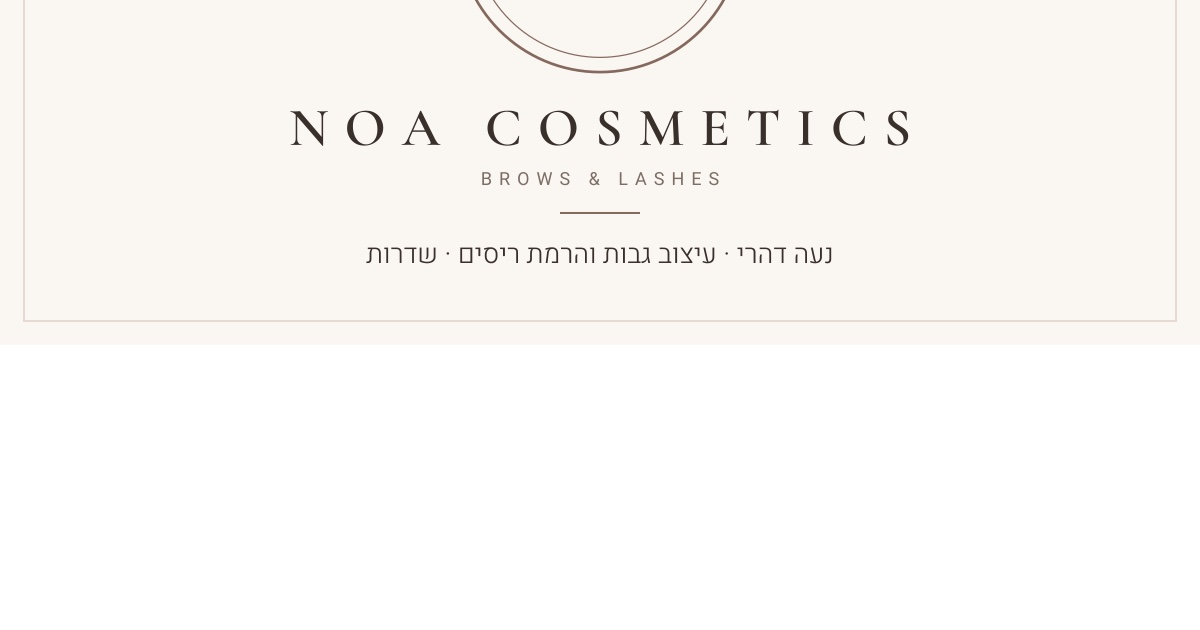
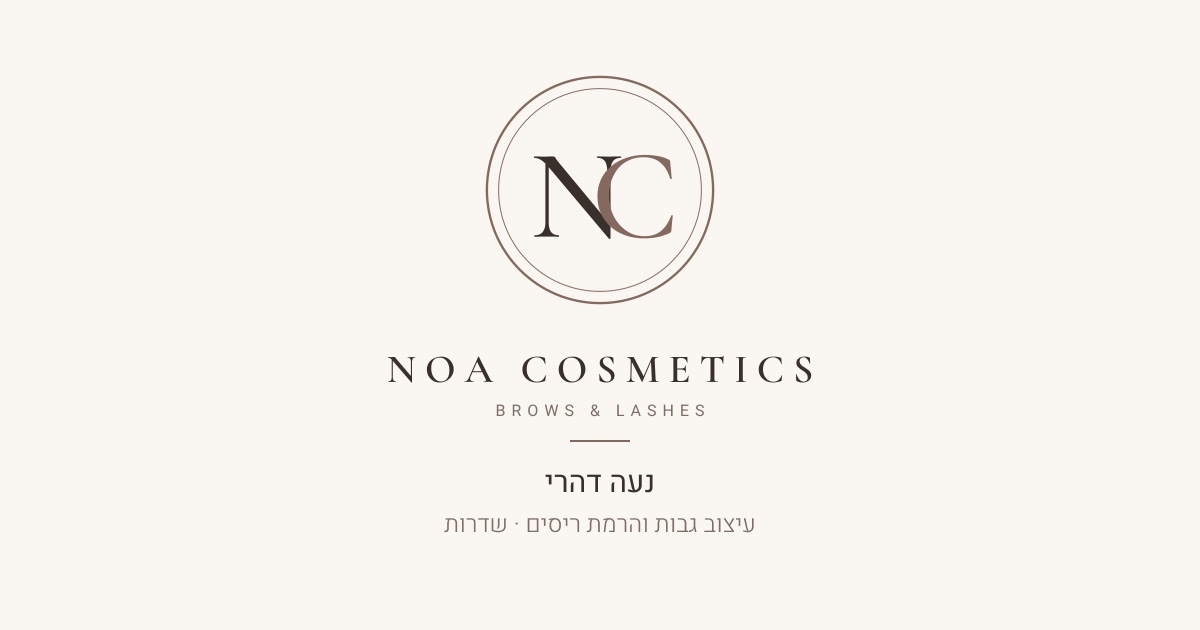
Add mobile hamburger menu, fix cropped WhatsApp preview image, add footer credit
- og-image.jpg was cropped from the middle of the render (top half missing);
  regenerated with content centered in a WhatsApp-safe square zone
- Bump og:image URL so WhatsApp refetches it

diff --git a/site/index.html b/site/index.html
@@ -10,7 +10,7 @@
 <meta property="og:description" content="עיצוב גבות, הרמת גבות והרמת ריסים בשדרות. קביעת תור אונליין.">
 <meta property="og:url" content="https://noa-cosmetics.vercel.app/">
 <meta property="og:site_name" content="Noa Cosmetics">
-<meta property="og:image" content="https://noa-cosmetics.vercel.app/og-image.jpg">
+<meta property="og:image" content="https://noa-cosmetics.vercel.app/og-image.jpg?v=2">
 <meta property="og:image:width" content="1200">
 <meta property="og:image:height" content="630">
 <meta property="og:image:alt" content="Noa Cosmetics – נעה דהרי, עיצוב גבות והרמת ריסים">
@@ -45,7 +45,21 @@ nav .wrap{display:flex;justify-content:space-between;align-items:center;height:7
 .links a{color:var(--ink);text-decoration:none;font-weight:400;font-size:.95rem;padding:6px 0;border-bottom:2px solid transparent;white-space:nowrap}
 .links a:hover{border-color:var(--accent)}
 nav .btn{white-space:nowrap}
-@media(max-width:900px){.links{display:none}}
+.nav-end{display:flex;align-items:center;gap:10px}
+.burger{display:none;width:44px;height:44px;border:1px solid var(--line);border-radius:10px;background:var(--card);cursor:pointer;flex-direction:column;align-items:center;justify-content:center;gap:5px;padding:0}
+.burger span{display:block;width:20px;height:2px;border-radius:2px;background:var(--ink);transition:transform .3s,opacity .2s}
+.burger[aria-expanded="true"] span:nth-child(1){transform:translateY(7px) rotate(45deg)}
+.burger[aria-expanded="true"] span:nth-child(2){opacity:0}
+.burger[aria-expanded="true"] span:nth-child(3){transform:translateY(-7px) rotate(-45deg)}
+.mnav{position:absolute;top:100%;left:0;right:0;max-height:0;overflow:hidden;visibility:hidden;transition:max-height .35s ease,visibility 0s .35s;background:var(--bg)}
+nav .mnav>.wrap{height:auto;display:flex;flex-direction:column;align-items:stretch;justify-content:flex-start;gap:0}
+.mnav.open{max-height:calc(100vh - 80px);overflow-y:auto;visibility:visible;transition:max-height .35s ease;border-top:1px solid var(--line);box-shadow:0 14px 30px #6b544822}
+.mnav a{color:var(--ink);text-decoration:none;font-weight:400;font-size:1.08rem;padding:14px 4px;border-bottom:1px solid var(--line)}
+.mnav a:last-child{border-bottom:0;margin-bottom:8px}
+.mnav a:hover,.mnav a:focus-visible{color:var(--accent)}
+@media(max-width:900px){.links{display:none}.burger{display:flex}}
+@media(min-width:901px){.mnav{display:none}}
+@media(max-width:400px){nav .btn{padding:10px 14px;font-size:.92rem}.nav-end{gap:7px}}
 .btn{display:inline-flex;align-items:center;gap:8px;background:var(--accent);color:var(--on);border:0;border-radius:10px;padding:11px 26px;font:400 1rem Heebo,sans-serif;cursor:pointer;text-decoration:none;transition:.2s}
 .btn:hover{transform:translateY(-2px);box-shadow:0 8px 20px #6b544844}
 .btn:disabled{opacity:.5;cursor:not-allowed;transform:none;box-shadow:none}
@@ -138,14 +152,21 @@ input{width:100%;padding:12px 14px;border-radius:10px;border:1px solid var(--lin
 .faq details p{margin:0;padding:0 20px 18px;color:var(--muted)}
 footer{background:#2d2a29;color:#e9dfd9;text-align:center;padding:34px 20px}
 footer a{color:#e8c9bf}
+.credit{margin-top:14px;padding-top:12px;border-top:1px solid #e9dfd926;display:inline-block;font-size:.8rem;letter-spacing:.02em;color:#e9dfd9b3}
+.credit a{text-decoration:none;font-weight:400;border-bottom:1px solid #e8c9bf66;padding-bottom:1px;transition:border-color .2s,color .2s}
+.credit a:hover,.credit a:focus-visible{color:#fff;border-color:#e8c9bf}
 </style>
 </head>
 <body>
 <nav><div class="wrap">
 <a class="brand" href="#top" aria-label="Noa Cosmetics – לראש העמוד"><img src="logo-mark.svg" alt="" width="46" height="46"><div class="logo">NOA COSMETICS<small>BROWS &amp; LASHES</small></div></a>
 <div class="links"><a href="#top">בית</a><a href="#services">הטיפולים</a><a href="#about">אודות</a><a href="#gallery">גלריה</a><a href="#faq">שאלות נפוצות</a><a href="#book">הזמנת תור</a><a href="#contact">צור קשר</a></div>
-<a class="btn" href="#book">קביעת תור</a>
-</div></nav>
+<div class="nav-end"><a class="btn" href="#book">קביעת תור</a>
+<button class="burger" id="burger" aria-label="פתיחת תפריט" aria-expanded="false" aria-controls="mnav"><span></span><span></span><span></span></button></div>
+</div>
+<div class="mnav" id="mnav"><div class="wrap">
+<a href="#top">בית</a><a href="#services">הטיפולים שלי</a><a href="#about">נעים להכיר</a><a href="#gallery">העבודות שלי</a><a href="#faq">שאלות נפוצות</a><a href="#book">הזמנת תור</a><a href="#contact">צור קשר</a>
+</div></div></nav>
 
 <header class="hero" id="top">
 <div class="hero-txt">
@@ -222,6 +243,7 @@ footer a{color:#e8c9bf}
 <div class="logo" style="text-align:center;margin-bottom:10px">NOA COSMETICS<small>NOA DAHARI</small></div>
 <div>📍 <span data-c="address">משעול ברל כצנלסון 2, שדרות</span><br>📞 <a id="tel" data-c="phone" href="tel:0506473569">050-647-3569</a> · <a id="wal" href="https://wa.me/972506473569">וואטסאפ</a></div>
 <div style="margin-top:10px;font-size:.85rem;opacity:.7">© 2026 Noa Cosmetics · נעה דהרי</div>
+<div class="credit">נבנה ועוצב ע״י <a href="https://wa.me/972556654987?text=%D7%94%D7%99%D7%99%20%D7%93%D7%91%D7%99%D7%A8%21%20%D7%A8%D7%90%D7%99%D7%AA%D7%99%20%D7%90%D7%AA%20%D7%94%D7%90%D7%AA%D7%A8%20%D7%A9%D7%9C%20Noa%20Cosmetics%20%D7%95%D7%90%D7%A0%D7%99%20%D7%A8%D7%95%D7%A6%D7%94%20%D7%92%D7%9D%20%D7%90%D7%AA%D7%A8%20%D7%9B%D7%96%D7%94%20%F0%9F%98%8A%20%D7%90%D7%A4%D7%A9%D7%A8%20%D7%9C%D7%A9%D7%9E%D7%95%D7%A2%20%D7%A4%D7%A8%D7%98%D7%99%D7%9D%3F" target="_blank" rel="noopener" aria-label="דביר דהרי – רוצים אתר כזה? שלחו הודעה בוואטסאפ">דביר דהרי</a></div>
 </footer>
 
 <script>
@@ -283,6 +305,12 @@ document.querySelectorAll('.sc[data-i]').forEach(e=>e.style.backgroundImage='url
 document.querySelectorAll('[data-bg]').forEach(e=>e.style.backgroundImage='url('+IMG[e.dataset.bg]+')');
 IMG.forEach((s,i)=>{const im=document.createElement('img');im.src=s;im.loading='lazy';im.alt='עבודה של נעה';im.onclick=()=>{$('lb').firstChild.src=s;$('lb').classList.add('on')};$('gal').appendChild(im)});
 $('lb').onclick=()=>$('lb').classList.remove('on');
+(()=>{const b=$('burger'),m=$('mnav'),links=m.querySelectorAll('a');
+const set=o=>{m.classList.toggle('open',o);b.setAttribute('aria-expanded',o);b.setAttribute('aria-label',o?'סגירת תפריט':'פתיחת תפריט');links.forEach(a=>a.tabIndex=o?0:-1)};
+set(false);b.onclick=()=>set(b.getAttribute('aria-expanded')!=='true');
+links.forEach(a=>a.addEventListener('click',()=>set(false)));
+document.addEventListener('keydown',e=>{if(e.key==='Escape'&&m.classList.contains('open')){set(false);b.focus()}});
+document.addEventListener('click',e=>{if(m.classList.contains('open')&&!m.contains(e.target)&&!b.contains(e.target))set(false)});})();
 (()=>{const rm=matchMedia('(prefers-reduced-motion:reduce)').matches;
 const els=[...document.querySelectorAll('.title,.trust>.wrap>div,.split>div:first-child,.sc,.about .wrap>*,.book,.gal-wrap,.faq')];
 if(!rm&&'IntersectionObserver' in window){els.forEach(e=>{e.classList.add('rv');e.style.transitionDelay=Math.min([...e.parentNode.children].indexOf(e),5)*.12+'s'});
